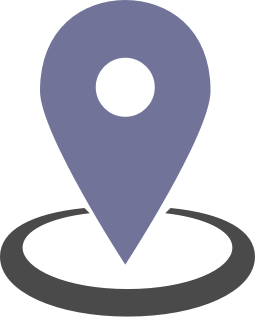
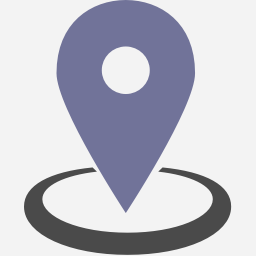
Finished Welcome page styling

diff --git a/app/assets/stylesheets/welcome.css.scss b/app/assets/stylesheets/welcome.css.scss
@@ -1,8 +1,9 @@
-$white: #FFFFFF;
 $highlight: #717399;
-$dark: #595959;
+$white: #FFFFFF;
 $light: #EDEFF5; 
 $light-gray: #f3f3f3;
+$medium-gray: #8a8a8a;
+$dark: #595959;
 
 
 * {
@@ -249,7 +250,7 @@ textarea {
 	h1 {
 		color: $white;
 		font-size: 2.5rem;
-		font-weight: 300;
+		font-weight: bold;
 		letter-spacing: 1px;
 		margin: 0 0 2rem 0;
 	}
@@ -266,10 +267,9 @@ textarea {
 	
 
 	h1 {
-		text-align: center !important;
-		color: $highlight !important;
+		text-align: center;
+		color: $highlight;
 		font-size: 3rem;
-		font-weight: 300;
 		letter-spacing: 1px;
 		padding-top: 6rem;
 		margin-bottom: 6rem;
@@ -282,7 +282,8 @@ textarea {
 
 
 		.card {
-			height: 24rem;
+			height: auto;
+			min-height: 24rem;
 			border: 2px solid $light-gray;
 			background-color: $light-gray;
 			box-shadow: 0px 4px 0px 0px darken($light-gray, 15%); 
@@ -293,6 +294,22 @@ textarea {
 				box-shadow: 0px 4px 0px 0px $highlight;
 			}
 
+			h2 {
+			text-align: center;
+			color: $dark;
+			font-size: 2.25rem;
+			font-weight: bold;
+			margin-top: 1.5rem;
+			}
+
+			p {
+				text-align: center;
+				color: $medium-gray;
+				font-size: 1.25rem;
+				margin: 1rem 0 2rem 0;
+				padding: 0 3rem 0 3rem;
+			}
+
 			#time-image, #location-image, #mood-image {
 				background-size: cover;
 				margin: auto;
@@ -301,20 +318,20 @@ textarea {
 
 			#time-image {
 				background-image: image-url("time_main.png");
-				height: 130px;
+				height: 128px;
 				width: 128px;
 			}
 
 			#location-image {
 				background-image: image-url("location_main.png");
-				height: 160px;
+				height: 128px;
 				width: 128px;
 			}	
 
 			#mood-image {
 				background-image: image-url("mood_main.png");
-				height: 144px;
-				width: 170px;
+				height: 128px;
+				width: 128px;
 			}		
 		}
 
@@ -338,18 +355,28 @@ textarea {
 		font-weight: 300;
 		letter-spacing: 1px;
 		padding-top: 6rem;
-		margin-bottom: 10rem;
+		margin-bottom: 12%;
 	}
 
 	.field {
 		height: 10%;
 		width: 100%;
-		margin: auto;
+		margin: 1rem auto 0 auto;
 	}
 
 	.row {
-		height: 100%;
+		height: auto;
 	}
+
+	.columns {
+
+		    display: flex;
+
+		#submit {
+			margin: 4rem auto 0 auto;
+		}
+	}
+
 
 	
 }
